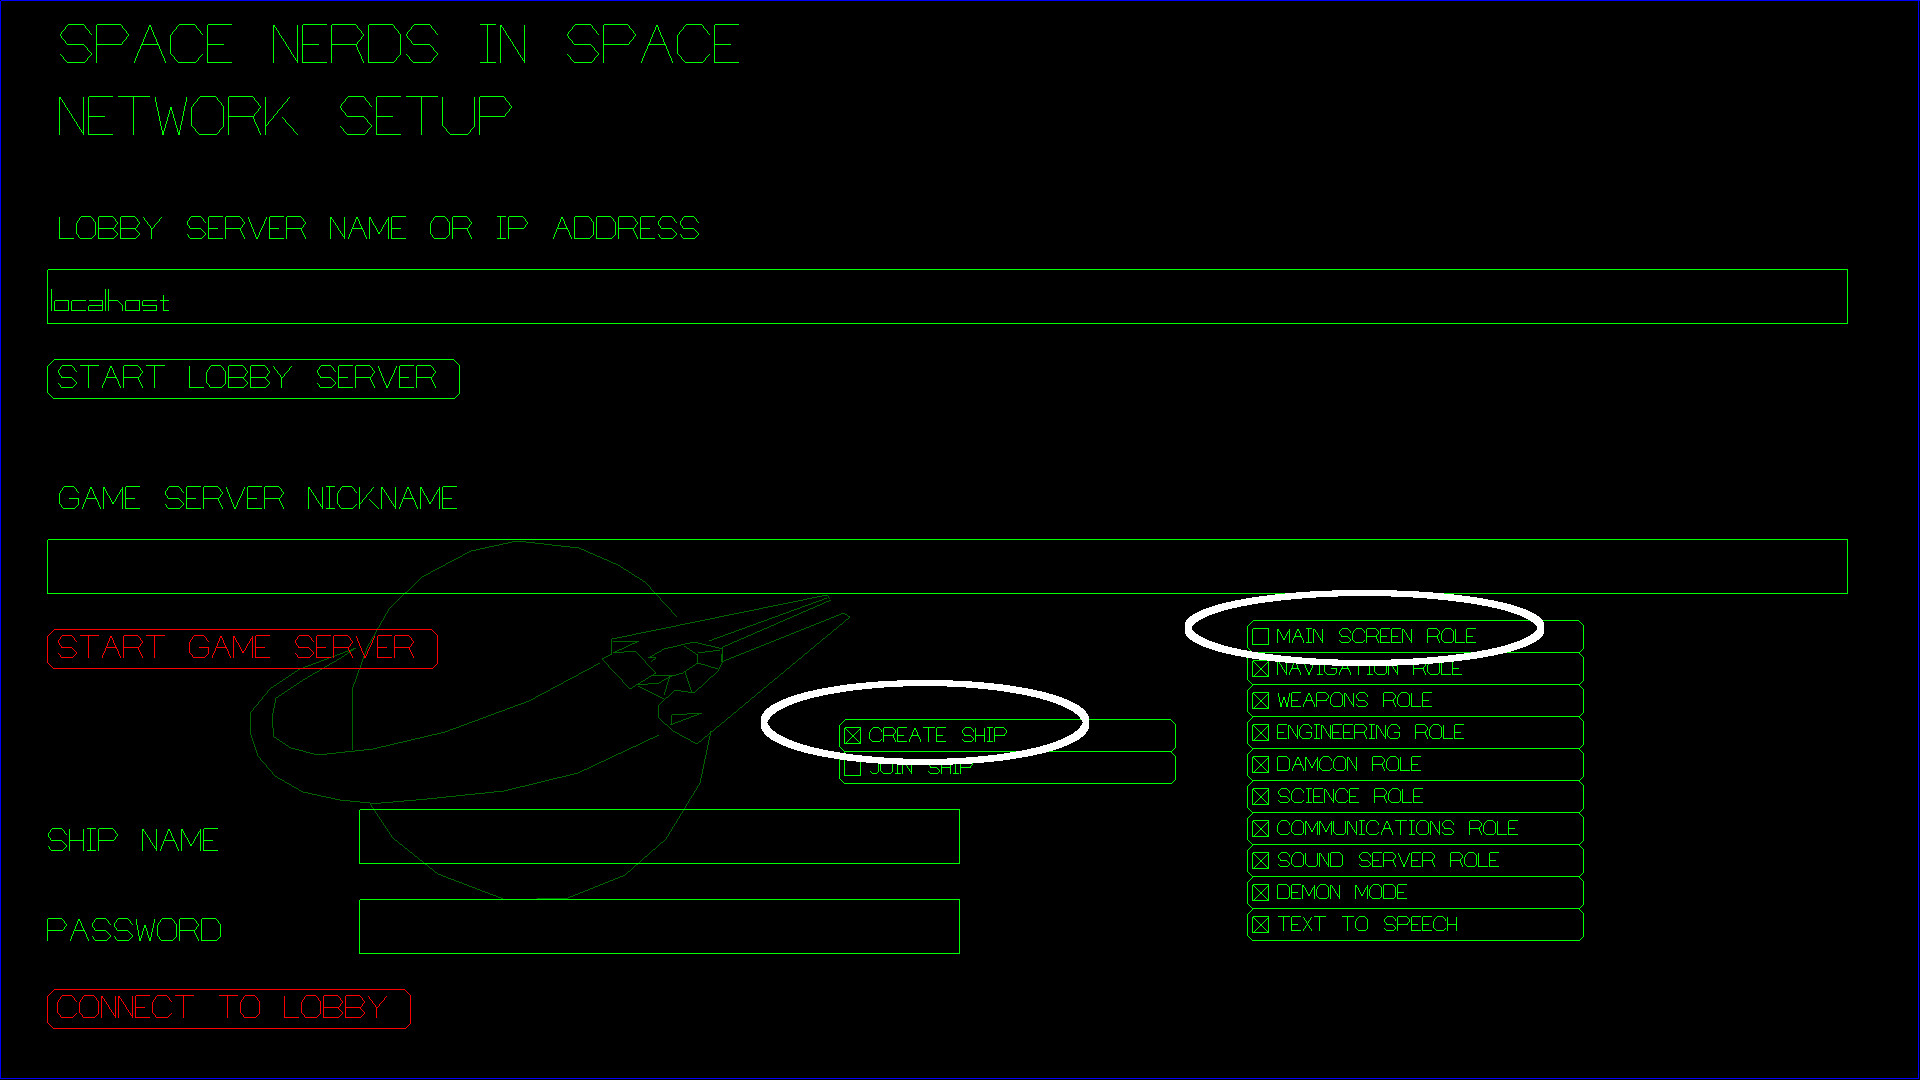
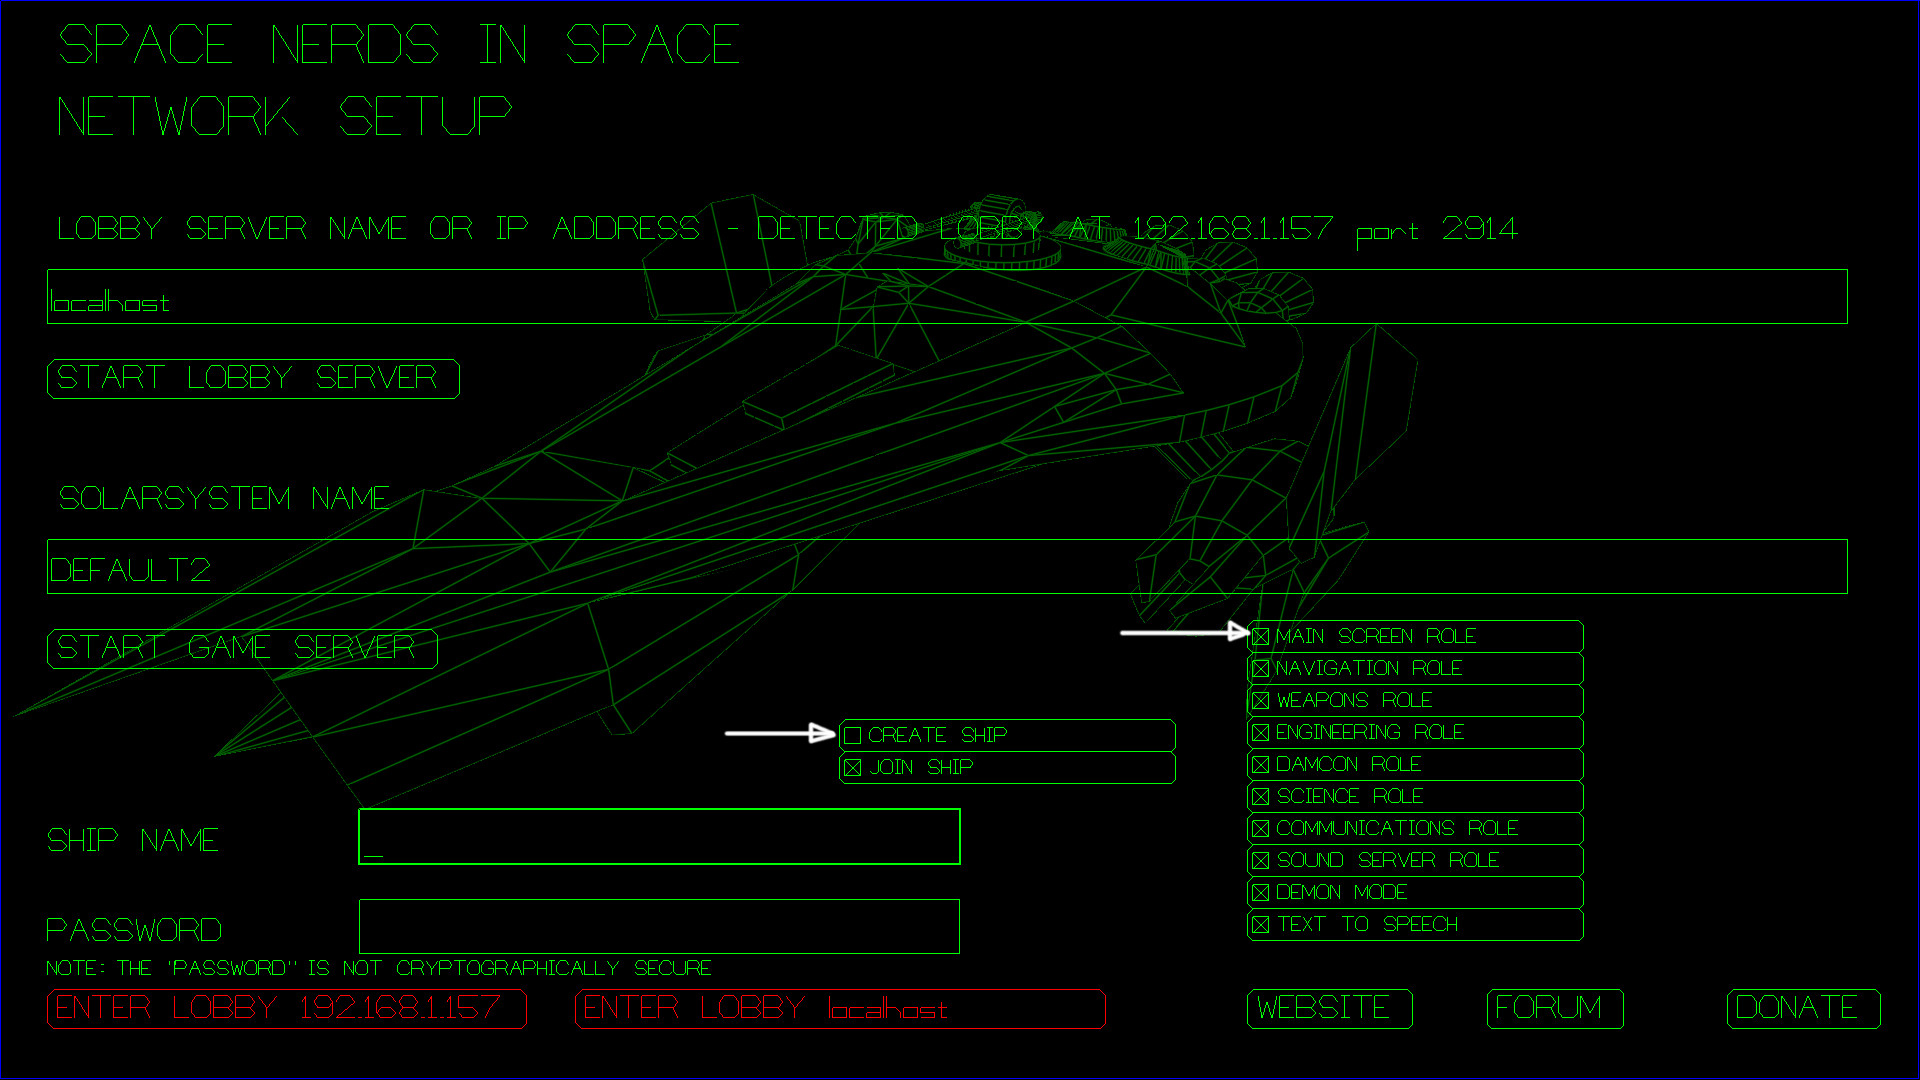
Updated network setup instructions.

diff --git a/index.html b/index.html
@@ -283,7 +283,7 @@ checked.  On subsequent runs, make sure CREATE SHIP is not checked.
 <li>Enter the name of your ship in the "SHIP NAME" field.
 <li>Choose a password for your ship and enter it in the PASSWORD field.
 (Note: the passwords are not cryptographically secure.)
-<li>Click the "CONNECT TO LOBBY" button in the lower left part of the screen
+<li>Click the "ENTER LOBBY ..." button in the lower left part of the screen
 </ol>
 <p>Once connected to the lobby, you should see something like this:
 <p align=center><img src="lobby1.jpg", width=85%>
@@ -1069,7 +1069,7 @@ leave the CREATE SHIP checkbox unchecked.
 <li>Since ssgl_server is running on the same system as snis_client (our <b>Main Computer</b>),
 it is fine to leave the LOBBY SERVER NAME OR IP ADDRESS field as "localhost".
 <li>Enter your ship's name and password (these you make up.)
-<li>Click on the CONNECT TO LOBBY button.
+<li>Click on either of the ENTER LOBBY buttons.
 You should then see something like this, with one line for each <b>snis_server</b>
 that you started (in this case, one.):
 <p align=center><img src="lobby1.jpg", width=85%>
@@ -1150,11 +1150,15 @@ which will quickly be covered up by the network setup screen, something like thi
 <li>Make sure MAIN SCREEN checkbox is <b>not</b> checked.
 <li>Make sure CREATE SHIP checkbox is <b>not</b> checked.
 <li>Make sure JOIN SHIP checkbox <b>is checked</b>.
-<li>For LOBBY SERVER NAME OR IP ADDRESS enter the IP address that
-you noted for the <b>MAIN COMPUTER</b> in step 10, above.
+<li>If the lobby is not autodetected, for LOBBY SERVER NAME OR IP
+ADDRESS enter the IP address that you noted for the <b>MAIN COMPUTER</b> in step 10, above.
+If the lobby is correctly auto detected, you do not need to enter the
+IP address.
 <li>For SHIP NAME and PASSWORD, enter the same name and password
 you used for the <b>Main Computer</b> setup in step 5 above.
-<li>Click the CONNECT TO LOBBY button.
+<li>Click the ENTER LOBBY XXX.XXX.XXX.XXX button if the lobby is autodetected,
+otherwise use the 2nd ENTER LOBBY button to choose the lobby with the IP
+address you have typed in.
 You should then see something like this, with one line for each <b>snis_server</b>
 that you started (in this case, one.):
 <p align=center><img src="lobby1.jpg", width=85%>
